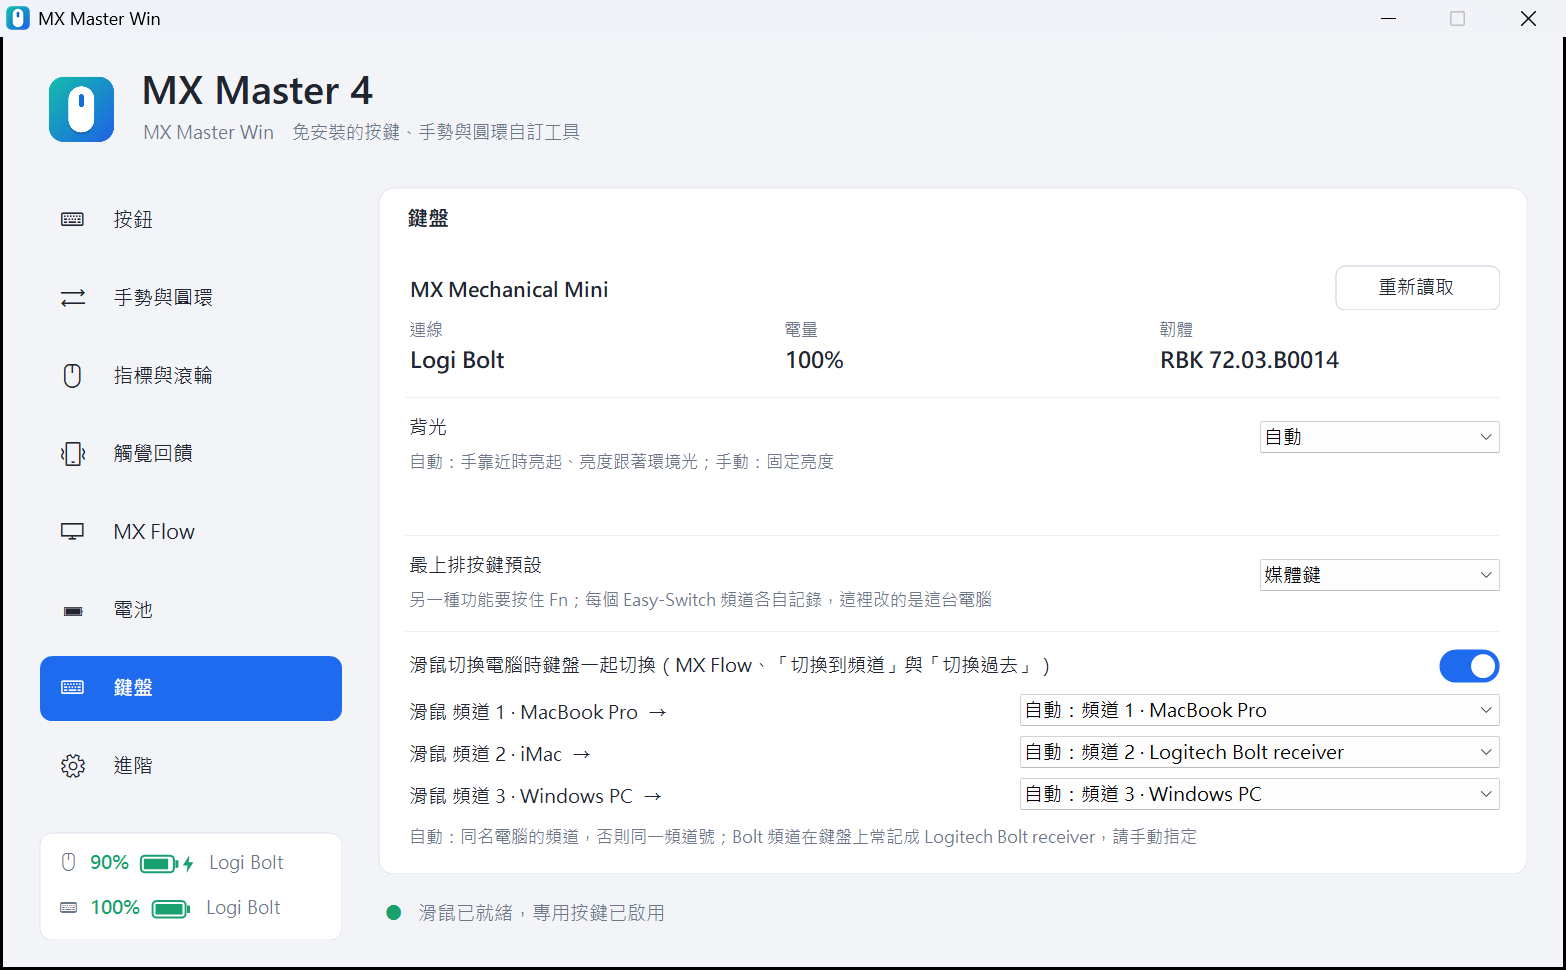
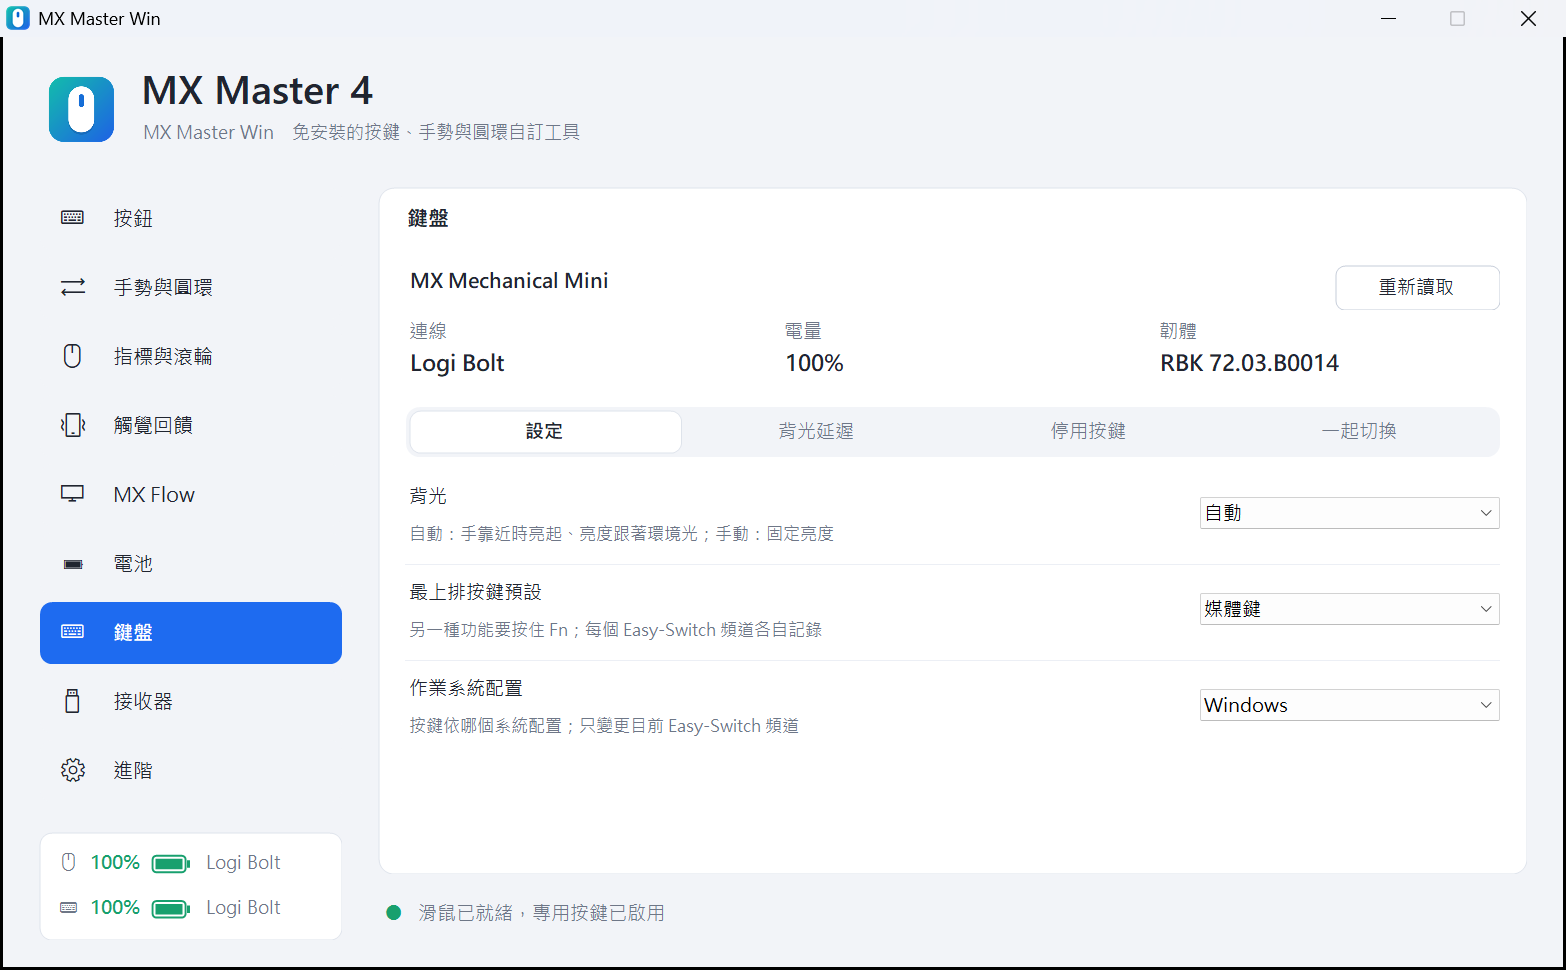
2.4: README and screenshots

diff --git a/README.en.md b/README.en.md
@@ -12,7 +12,7 @@ MX Master Win is a portable Windows utility for the Logitech MX Master 4. It is 
 
 It is the Windows edition of the same product as [MX Master Mac](https://github.com/stone5202/MXMasterMac) for macOS, with the same features and the same way of setting them up. Run one edition on each computer and MX Flow takes the mouse back and forth between Windows and Mac.
 
-> Current version: 2.3.1 · Interface languages: Traditional Chinese, English (follows the system by default)
+> Current version: 2.4 · Interface languages: Traditional Chinese, English (follows the system by default)
 >
 > Up to 1.1 the app was called MX Master Portable. Put the new `MXMasterWin.exe` in the same folder and it picks up the old settings file on first run.
 
@@ -62,6 +62,14 @@ See the [changelog](CHANGELOG.en.md) or [GitHub Releases](https://github.com/sto
   Keyboard
 </p>
 
+<p align="center">
+  <img src="docs/screenshots/receiver.en.png" width="80%" alt="Receiver page: pair a new device with a Logi Bolt receiver and the paired devices">
+</p>
+
+<p align="center">
+  Receiver
+</p>
+
 ## Download and use
 
 1. Download `MXMasterWin.exe` from [Releases](https://github.com/stone5202/MXMasterWin/releases/latest).
@@ -81,8 +89,10 @@ The EXE is not code-signed, so Windows SmartScreen may warn on first launch. On 
 - **Haptics**: set the mouse's haptic strength and four haptic moments separately: ring slices, gesture recognized, before switching computers and mode changes. Each can be switched on or off, given one of six waveforms and tried.
 - **Precision mode**: hold the chosen button to drop the pointer to a slower DPI (400 by default) for detailed work such as photo editing or alignment; release to go back. It can also be toggled from the ring or a gesture. When precision mode or the wheel mode changes, the new state shows briefly at the bottom of the screen.
 - **Battery**: shows the level, whether it is charging and the connection. When the level drops to the threshold (15% by default) while not charging, one tray notification appears, and haptics can pause automatically to save power.
-- **Keyboard** (2.3 and later): for a Logitech keyboard connected over Bluetooth or sharing the Logi Bolt receiver with the mouse, shows connection, battery and firmware, and sets the backlight (automatic, manual brightness or off) and whether the top row sends media keys or F1–F12. When the mouse moves to another computer (MX Flow, Switch to channel or the Switch button), the keyboard can move to the matching channel with it, and each channel's pairing can be changed. With a keyboard connected, the bottom-left corner shows both batteries.
-- **Device settings**: shows battery level and firmware version; adjusts pointer speed (DPI), SmartShift, scroll direction (Standard / Natural) and haptic feedback strength. Values you apply are saved and re-applied at start-up and whenever the mouse reconnects.
+- **Keyboard** (2.3 and later): for a Logitech keyboard connected over Bluetooth or sharing the Logi Bolt receiver with the mouse, shows connection, battery and firmware, and sets the backlight (automatic, manual brightness or off) and whether the top row sends media keys or F1–F12. When the mouse moves to another computer (MX Flow, Switch to channel or the Switch button), the keyboard can move to the matching channel with it, and each channel's pairing can be changed. With a keyboard connected, the bottom-left corner shows both batteries. From 2.4 it can also disable keys (Caps Lock, for one), set the OS layout of the current channel, and set backlight delays for hands away, hands near and external power.
+- **Receiver** (2.4 and later): pair a new mouse or keyboard with a Logi Bolt receiver (passkey typed on the keyboard or clicked on the mouse), list paired devices and unpair them, without installing Logi Bolt or Logi Options+.
+- **Channel names** (2.4 and later): when the current channel of the mouse or keyboard stores a different name from this computer (a channel paired through Logi Bolt is stored as "Logitech Bolt receiver", for one), this computer's name is written, so MX Flow and the keyboard-follows matching are more accurate.
+- **Device settings**: shows battery level and firmware version; adjusts pointer speed (DPI), SmartShift, scroll direction (Standard / Natural) and haptic feedback strength, plus ratchet torque, thumb-wheel inversion and high-resolution scrolling when the device supports them (2.4 and later). Values you apply are saved and re-applied at start-up and whenever the mouse reconnects.
 - **Recovers after a connection change**: when the mouse goes to another computer and comes back, or moves between Bluetooth and Logi Bolt, the special buttons are enabled again automatically.
 - **Connections**: Bluetooth LE and the Logi Bolt receiver.
 - **Also**: every setting is saved automatically, only one instance runs, mapping can be paused from the tray, it can start when you sign in to Windows, and the interface switches between Chinese and English.
@@ -94,6 +104,7 @@ The EXE is not code-signed, so Windows SmartScreen may warn on first launch. On 
 - .NET Framework 4.x (included with Windows; nothing to install)
 - Logitech MX Master 4 (Bluetooth LE or Logi Bolt)
 - For the keyboard features (optional): a Logitech keyboard with HID++ 2.0
+- For the Receiver page (optional): a Logi Bolt receiver (Unifying and Lightspeed are not supported)
 
 ## Known limitations
 
@@ -112,7 +123,9 @@ The EXE is not code-signed, so Windows SmartScreen may warn on first launch. On 
 - Special buttons (gesture button `0x00C3`, Actions Ring button `0x01A0`): temporary diversion is set through Windows' built-in HID interface with HID++ 2.0 feature `0x1B04`, and button notifications arrive through Raw Input. Diversion is released when the app is paused or exits.
 - Device settings: HID++ features `0x1004` (battery), `0x0003` (firmware), `0x2201` (DPI), `0x2111` (SmartShift), `0x2121` (scroll direction) and `0x19B0` (haptic strength and waveform playback). Every write is read back to confirm it. Precision mode writes a lower DPI temporarily; the normal speed is written back on release, pause, exit, or before the mouse moves to another computer.
 - MX Flow: Raw Input supplies this mouse's own movement, which is used to tell whether the pointer is held against the outer edge of the outermost monitor and still being pushed outward. HID++ feature `0x1814` (change host) sends the switch and `0x1815` reads the host name stored on each channel.
-- Keyboard: also through Windows' built-in HID interface, with HID++ features `0x1982` (backlight), `0x40A3` (top row), and `0x1814` / `0x1815` (change host and host names). When the keyboard follows the mouse, it is asked to switch only after the mouse switch has gone out.
+- Keyboard: also through Windows' built-in HID interface, with HID++ features `0x1982` (backlight and delays), `0x40A3` (top row), `0x4521` (disable keys), `0x4531` (OS layout), and `0x1814` / `0x1815` (change host, read and write host names). When the keyboard follows the mouse, it is asked to switch only after the mouse switch has gone out.
+- Ratchet torque, thumb-wheel inversion and high-resolution scrolling: HID++ features `0x2111`, `0x2150` and `0x2121`; only the matching field or bit is changed.
+- Receiver: the Logi Bolt receiver's own HID++ interface is opened directly; pairing, listing and unpairing use HID++ 1.0 registers and receiver notifications. The engineering log never writes pairing passkeys, device addresses or serial numbers.
 - Reconnect detection: when the mouse sends input again after a pause, the diversion state is read back and re-applied if it is gone; when the current connection stops answering, the app looks for the mouse on the other connections (Bluetooth / Bolt).
 
 HID++ feature numbers and packet layouts follow the public implementations in the open-source projects [Solaar](https://github.com/pwr-Solaar/Solaar) and [logiops](https://github.com/PixlOne/logiops).
